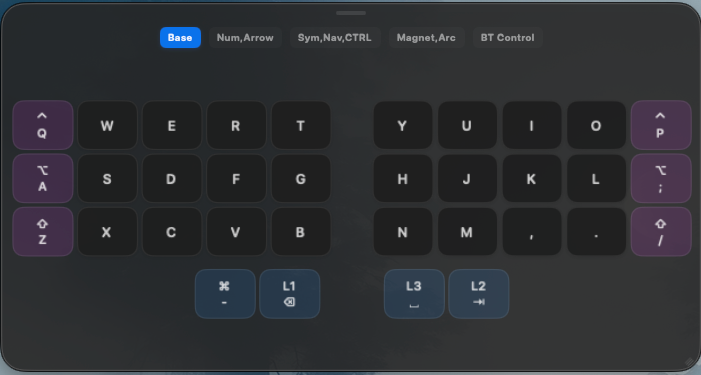
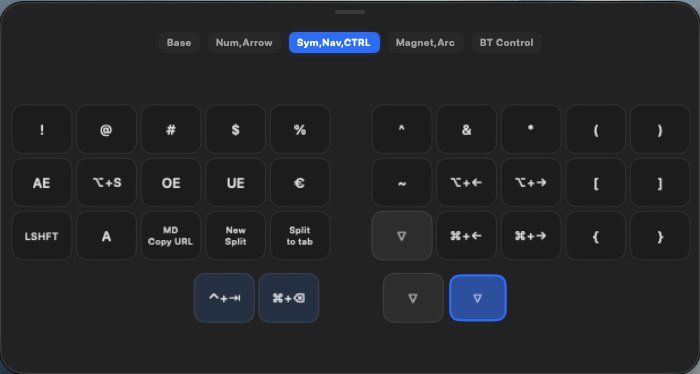
docs: refresh screenshots and show the home folder as ~
New screenshots of the keymap, the HUD while holding a layer and the
settings with the Live Layer section. The path field now shows ~ for
the home folder (and accepts it when typed), which also keeps the user
name out of screenshots.

diff --git a/ContentView.swift b/ContentView.swift
@@ -463,7 +463,7 @@ struct ContentView: View {
     }
     
     private func loadFromPathText() {
-        let path = pathText.trimmingCharacters(in: .whitespacesAndNewlines)
+        let path = (pathText.trimmingCharacters(in: .whitespacesAndNewlines) as NSString).expandingTildeInPath
         guard !path.isEmpty else { return }
         guard path.hasSuffix(".keymap") else { return }
         guard FileManager.default.fileExists(atPath: path) else { return }
@@ -755,7 +755,8 @@ struct ContentView: View {
     }
     
     private func loadKeymap(from path: String) {
-        pathText = path
+        // Show ~ instead of the home folder: shorter, and keeps the user name out of screenshots
+        pathText = (path as NSString).abbreviatingWithTildeInPath
         viewModel.loadKeymap(from: path)
         appState.addRecentKeymap(path)
         // The view model resets the displayed layer when a different file loads

diff --git a/README.md b/README.md
@@ -4,7 +4,7 @@ A lightweight macOS menu bar app that displays your ZMK keymap bindings in a vis
 
 With two small firmware modules it follows your keyboard live: it shows the layer you are on and lights up the keys you press, in a floating HUD that stays out of your way.
 
-<img width="751" alt="ZMK Keymap Viewer" src="assets/keymap_screenshot.png" />
+<img width="746" alt="ZMK Keymap Viewer" src="assets/keymap_screenshot.png" />
 
 ![macOS](https://img.shields.io/badge/macOS-13.0+-blue)
 ![Swift](https://img.shields.io/badge/Swift-5.9+-orange)
@@ -54,7 +54,7 @@ With two small firmware modules it follows your keyboard live: it shows the laye
 
 ## 👁 HUD Mode
 
-<img width="700" alt="HUD Mode" src="assets/hud_screenshot.png" />
+<img width="700" alt="HUD Mode while holding the Sym layer key" src="assets/hud_screenshot.png" />
 
 - **Always-on-top** floating overlay
 - **Auto-fades** after inactivity, wakes on hover, on key presses and on layer changes
@@ -73,6 +73,8 @@ With two small firmware modules, the app knows what happens on your keyboard:
 - **No flicker:** The HUD wakes on every key press, not only on layer changes, and doesn't fade while a key is held.
 
 Works over USB and Bluetooth, no extra macOS permission needed. Settings → Live Layer shows whether the keyboard is connected and which layer it is on.
+
+<img width="700" alt="Settings with the Live Layer section" src="assets/settings_screenshot.png" />
 
 Clicking a layer tab still works; it holds until your next layer change on the keyboard. Following the keyboard and the menu bar number can be turned off in Settings → Live Layer.
 
